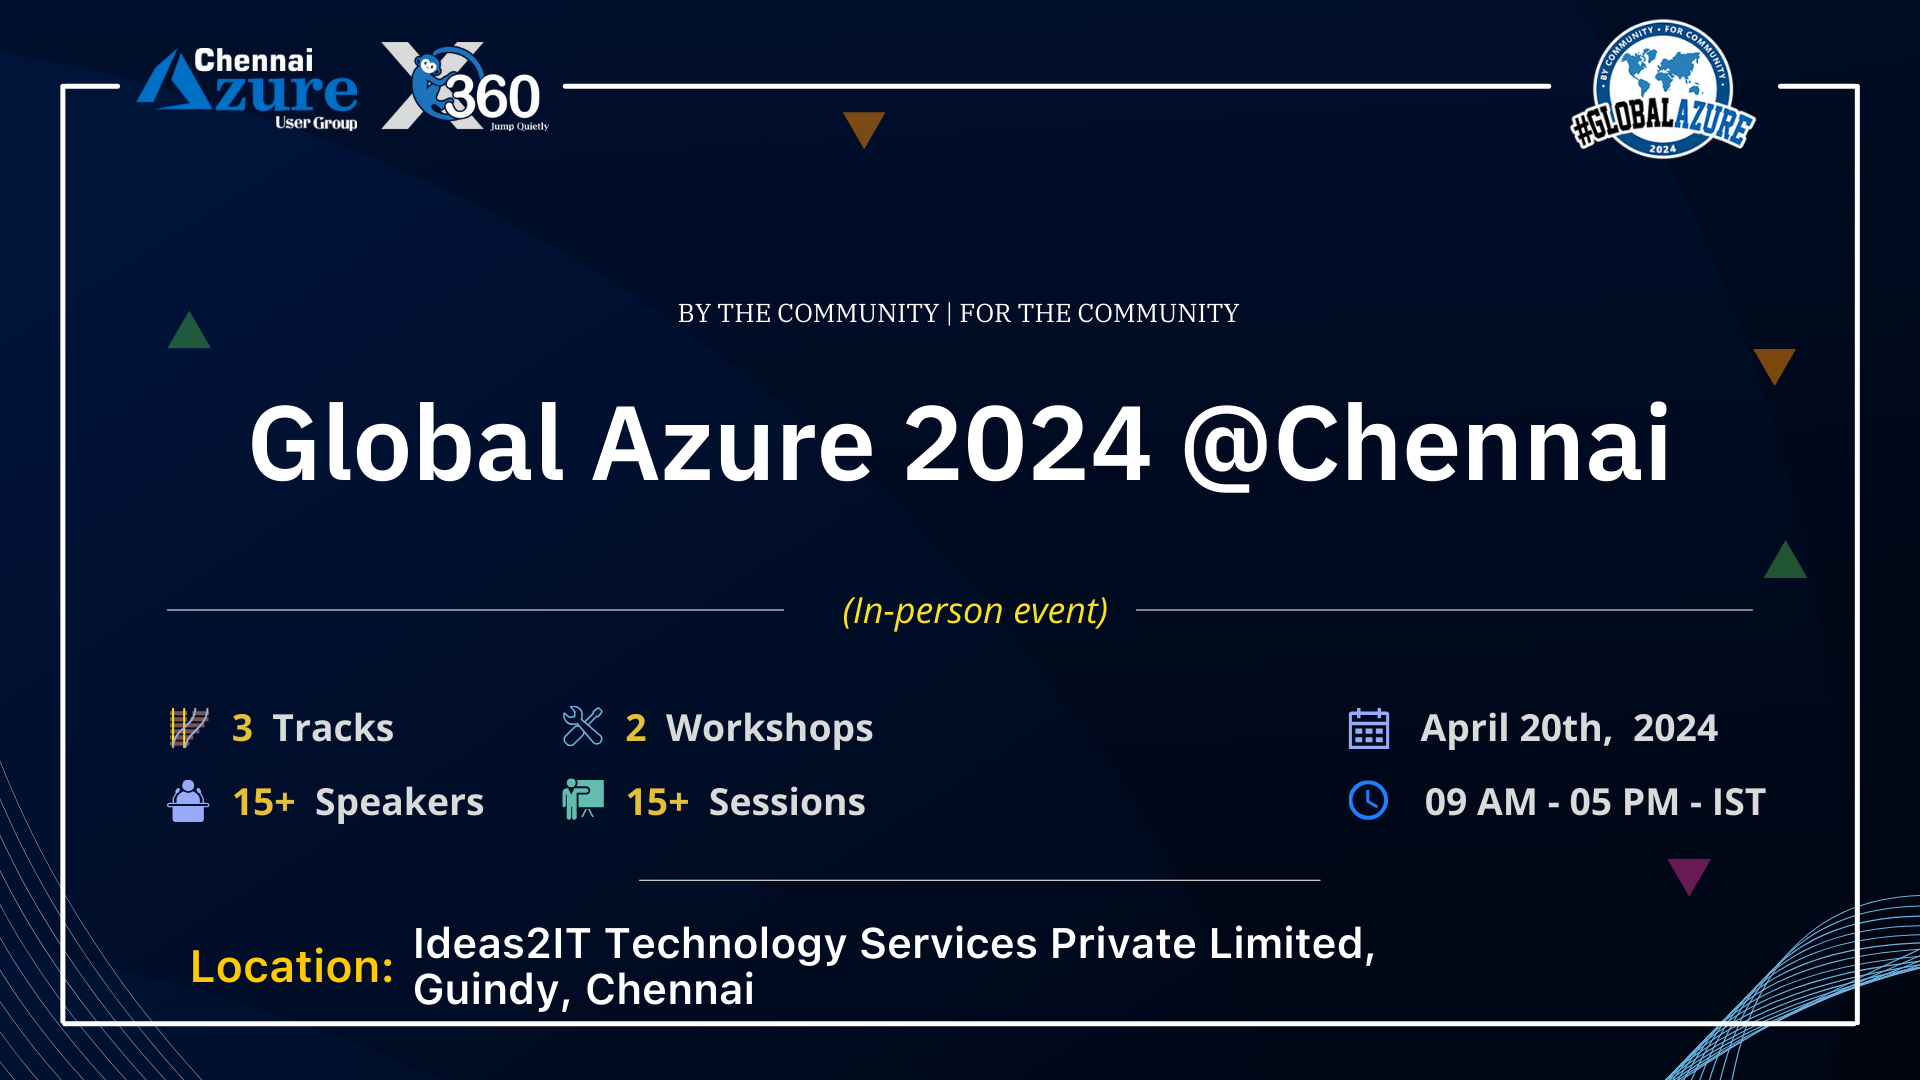
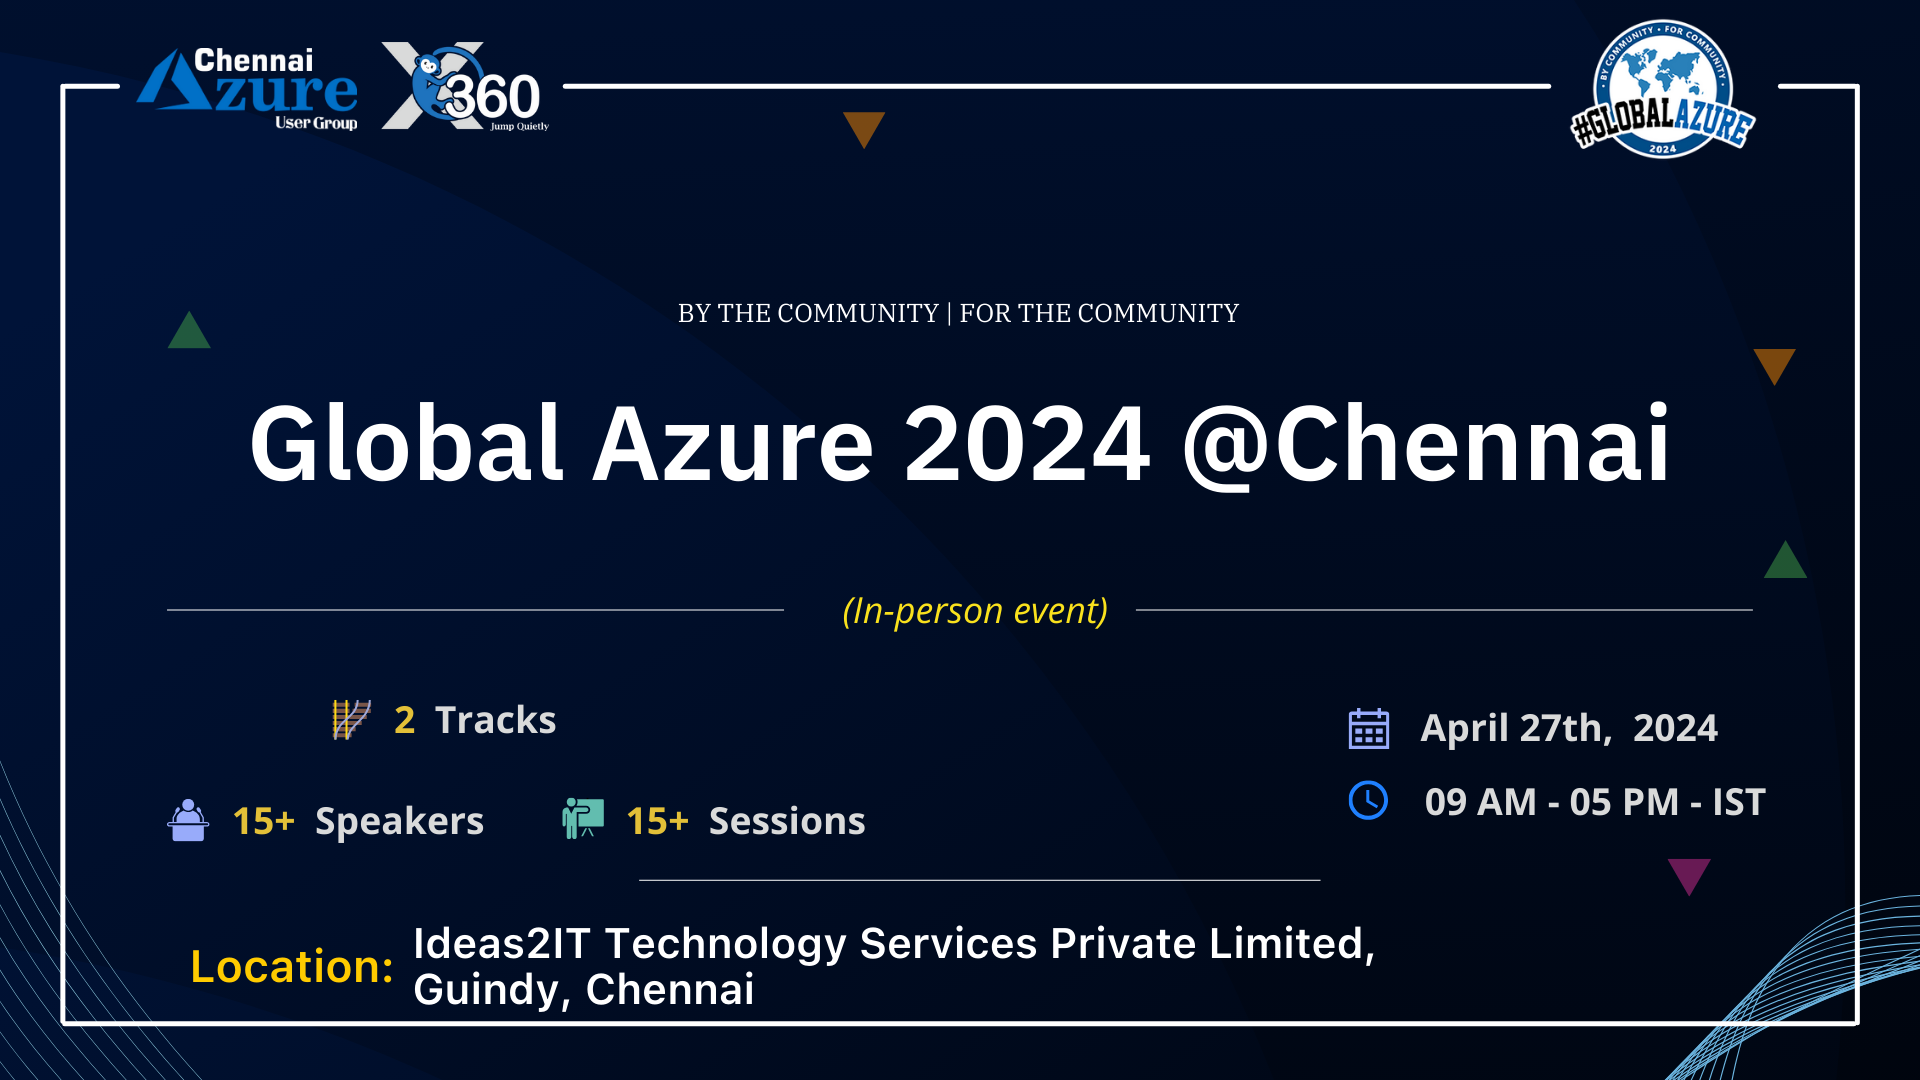
Updated Event date & MetaTag

diff --git a/GlobalAzure/index.html b/GlobalAzure/index.html
@@ -191,7 +191,7 @@
                         </h1>
 
                         <h6 class="wow fadeInDown heading" data-wow-delay=".4s">
-                            20<sup style="        font-style: italic;
+                            27<sup style="        font-style: italic;
         text-transform: lowercase
 ">th</sup> April, 2024
 
@@ -379,7 +379,7 @@
                 <div class="col-md-6 col-lg-3 col-xs-12 work-counter-widget text-center">
                     <div class="counter wow fadeInRight" data-wow-delay="0.6s">
                         <div class="icon"><i class="lni-timer"></i></div>
-                        <p>April 20, 2024</p>
+                        <p>April 27, 2024</p>
                         <span>09:00 AM – 05:00 PM</span>
                     </div>
                 </div>

diff --git a/GlobalAzure/assets/js/main.js b/GlobalAzure/assets/js/main.js
@@ -20,7 +20,7 @@
     /* ==========================================================================
        countdown timer
        ========================================================================== */
-     jQuery('#clock').countdown('2024/04/20',function(event){
+     jQuery('#clock').countdown('2024/04/27',function(event){
       var $this=jQuery(this).html(event.strftime(''
       +'<div class="time-entry days"><span>%-D</span> Days</div> '
       +'<div class="time-entry hours"><span>%H</span> Hours</div> '
